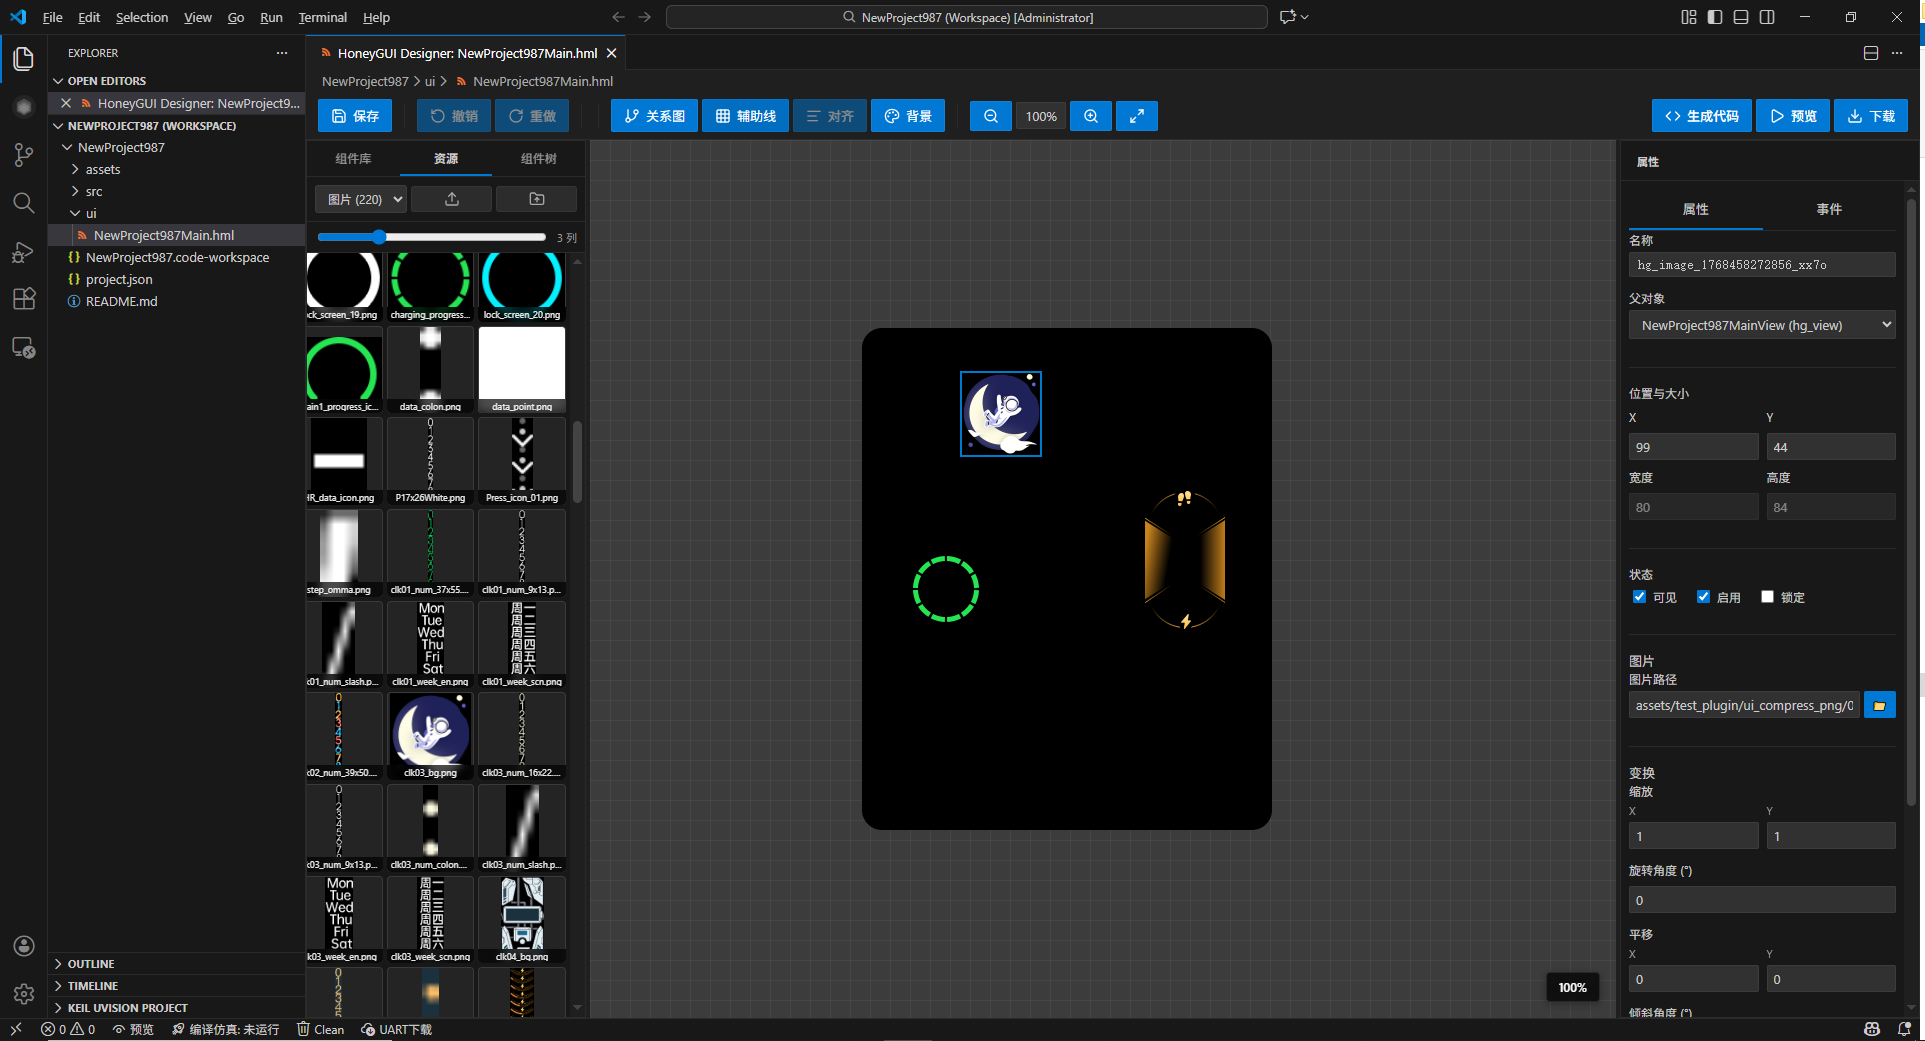
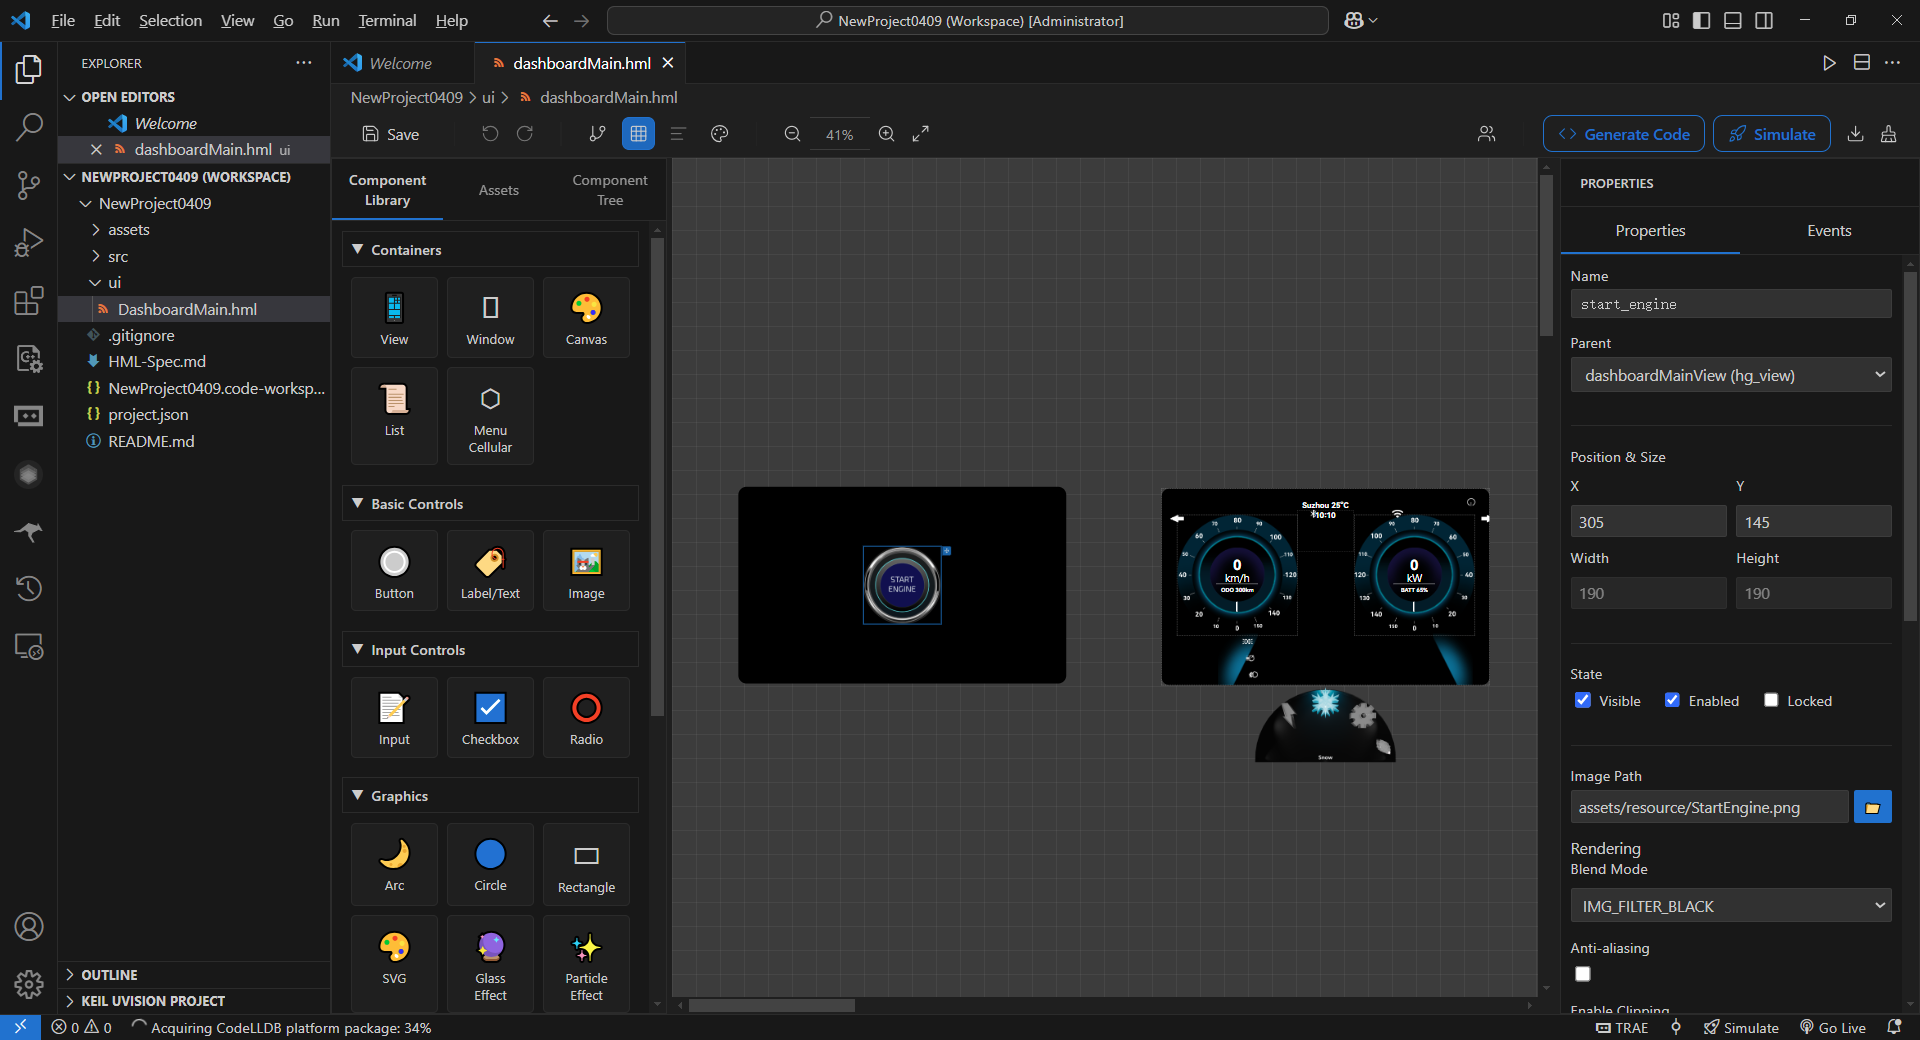
GUI-BypassTest: fix plugin doc

diff --git a/doc/en/GUI-APP/VSCode/deployment.rst b/doc/en/GUI-APP/VSCode/deployment.rst
@@ -453,28 +453,19 @@ Bind Data on Embedded Side
 Solution Selection Guide
 -------------------------
 
-.. code-block:: text
+.. mermaid::
 
-                  ┌─────────────────┐
-                  │ Need OTA UI     │
-                  │ updates?        │
-                  └────────┬────────┘
-                           │
-            ┌──────────────┴──────────────┐
-            │ No                          │ Yes
-            ▼                             ▼
-    ┌───────────────┐           ┌─────────────────┐
-    │ Solution 1:   │           │ Flash sufficient?│
-    │ C Code        │           └────────┬────────┘
-    └───────────────┘                    │
-                          ┌──────────────┴──────────────┐
-                          │ Yes                         │ No
-                          ▼                             ▼
-                  ┌───────────────┐           ┌───────────────┐
-                  │ Solution 2:   │           │ Solution 3:   │
-                  │ HML (XML)     │           │ HML (BIN)     │
-                  │ (Easy debug)  │           │ (Small size)  │
-                  └───────────────┘           └───────────────┘
+   graph TD
+       Q1{Need OTA UI updates?}
+       Q2{Flash sufficient?}
+       A1[Solution 1: C Code]
+       A2[Solution 2: HML<br/>Easy debug]
+       A3[Solution 3: BIN<br/>Small size]
+
+       Q1 -->|No| A1
+       Q1 -->|Yes| Q2
+       Q2 -->|Yes| A2
+       Q2 -->|No| A3
 
 Performance and Resource Comparison
 ------------------------------------
@@ -567,4 +558,3 @@ Next Steps
 * See :doc:`code_generation` for code generation details
 * Learn :doc:`build_simulation` to test on PC
 * Refer to :doc:`resource_management` to optimize resource usage
-* Read HoneyGUI SDK porting documentation for platform adaptation

diff --git a/doc/cn/GUI-APP/VSCode/event_system.rst b/doc/cn/GUI-APP/VSCode/event_system.rst
@@ -29,11 +29,11 @@ UI 设计变更
 
 原有的视图切换功能已统一到 Event-Action 体系中：
 
-.. code-block:: text
+.. figure:: resource/property.png
+   :align: center
+   :width: 300px
 
-   ┌─────────────────────────────────────┐
-   │ [属性] [事件]                       │  ← 所有组件统一使用
-   ├─────────────────────────────────────┤
+   属性界面
 
 * **属性**: 组件基础属性（位置、大小、样式等）
 * **事件**: Event-Action 配置（包含原视图切换功能）
@@ -386,25 +386,11 @@ UI 设计
 属性面板 - 事件标签页
 ~~~~~~~~~~~~~~~~~~~~~~
 
-.. code-block:: text
+.. figure:: resource/event.png
+   :align: center
+   :width: 300px
 
-   ┌─────────────────────────────────────┐
-   │ [属性] [事件]                       │
-   ├─────────────────────────────────────┤
-   │                                     │
-   │ ▼ onSwipeLeft                [删除] │
-   │ ┌─────────────────────────────────┐ │
-   │ │ 1. switchView                   │ │
-   │ │    目标视图: [screen2    ▼]     │ │
-   │ │    退出动画: [向左平移   ▼]     │ │
-   │ │    进入动画: [从右平移   ▼]     │ │
-   │ │                         [×]     │ │
-   │ └─────────────────────────────────┘ │
-   │ [+ 添加动作]                        │
-   │                                     │
-   │ [+ 添加事件]                        │
-   │                                     │
-   └─────────────────────────────────────┘
+   事件界面
 
 实际使用示例
 ------------
@@ -412,7 +398,7 @@ UI 设计
 示例 1: 按钮点击跳转
 ~~~~~~~~~~~~~~~~~~~~
 
-**场景**: 点击 :gui_label:`下一步` 按钮跳转到第二页
+**场景**: 点击 :guilabel:`下一步` 按钮跳转到第二页
 
 **HML 配置**:
 

diff --git a/doc/en/GUI-APP/VSCode/event_system.rst b/doc/en/GUI-APP/VSCode/event_system.rst
@@ -29,11 +29,11 @@ Unified Property Panel Tabs
 
 The original view switch functionality has been unified into the Event-Action system:
 
-.. code-block:: text
+.. figure:: resource/property.png
+   :align: center
+   :width: 300px
 
-   +-------------------------------------+
-   | [Properties] [Events]               |  <- Used uniformly by all components
-   +-------------------------------------+
+   Properties Panel
 
 * **Properties**: Basic component attributes (position, size, style, etc.)
 * **Events**: Event-Action configuration (includes original view switch functionality)
@@ -386,25 +386,11 @@ UI Design
 Property Panel - Events Tab
 ~~~~~~~~~~~~~~~~~~~~~~~~~~~~
 
-.. code-block:: text
+.. figure:: resource/event.png
+   :align: center
+   :width: 300px
 
-   ┌─────────────────────────────────────┐
-   │ [Properties] [Events]               │
-   ├─────────────────────────────────────┤
-   │                                     │
-   │ ▼ onSwipeLeft               [Delete]│
-   │ ┌─────────────────────────────────┐ │
-   │ │ 1. switchView                   │ │
-   │ │    Target View: [screen2    ▼]  │ │
-   │ │    Exit Anim:   [Slide Left ▼]  │ │
-   │ │    Enter Anim:  [From Right ▼]  │ │
-   │ │                         [×]     │ │
-   │ └─────────────────────────────────┘ │
-   │ [+ Add Action]                      │
-   │                                     │
-   │ [+ Add Event]                       │
-   │                                     │
-   └─────────────────────────────────────┘
+   Events Panel
 
 Practical Examples
 ------------------
@@ -412,7 +398,7 @@ Practical Examples
 Example 1: Button Click to Jump
 ~~~~~~~~~~~~~~~~~~~~~~~~~~~~~~~~
 
-**Scenario**: Click :gui_label:`Next` button to jump to page 2
+**Scenario**: Click :guilabel:`Next` button to jump to page 2
 
 **HML Configuration**:
 

diff --git a/doc/cn/GUI-APP/VSCode/build_simulation.rst b/doc/cn/GUI-APP/VSCode/build_simulation.rst
@@ -19,7 +19,7 @@ Windows
 * **MinGW-w64**: C/C++ 编译器
 
   * 推荐版本： 8.1.0 或更高
-  * 安装路径： ``C:\mingw64``（默认）
+  * 安装路径： ``C:\mingw64`` （默认）
   * 下载： https://sourceforge.net/projects/mingw-w64/
 
 * **Python**: 3.9.7 或更高版本
@@ -151,7 +151,7 @@ HoneyGUI Visual Designer 项目的标准结构：
 
 2. **生成代码**:
 
-   * 点击工具栏的 :gui_label:`生成代码` 按钮
+   * 点击工具栏的 :guilabel:`生成代码` 按钮
    * 或使用命令面板： ``Ctrl+Shift+P`` → ``HoneyGUI: Generate Code``
 
 3. **配置应用**:

diff --git a/doc/cn/GUI-APP/VSCode/code_generation.rst b/doc/cn/GUI-APP/VSCode/code_generation.rst
@@ -97,7 +97,7 @@
 ~~~~~~~~
 
 1. 在设计器中打开任意 HML 文件
-2. 点击工具栏的 :gui_label:`生成代码`
+2. 点击工具栏的 :guilabel:`生成代码`
 3. 自动扫描项目中所有 HML 文件并生成代码
 4. 显示生成进度和结果
 
@@ -110,7 +110,7 @@
 **快捷方式**:
 
 * 命令面板： ``Ctrl+Shift+P`` → ``HoneyGUI: Generate Code``
-* 工具栏按钮：点击 :gui_label:`生成代码`
+* 工具栏按钮：点击 :guilabel:`生成代码`
 
 代码保护区
 ----------

diff --git a/doc/en/GUI-APP/VSCode/code_generation.rst b/doc/en/GUI-APP/VSCode/code_generation.rst
@@ -97,7 +97,7 @@ Generate Code
 ~~~~~~~~~~~~~
 
 1. Open any HML file in the designer
-2. Click the :gui_label:`Generate Code` button in the toolbar
+2. Click the :guilabel:`Generate Code` button in the toolbar
 3. Automatically scan all HML files in the project and generate code
 4. Display generation progress and results
 
@@ -110,7 +110,7 @@ Generate Code
 **Shortcuts**:
 
 * Command Palette: ``Ctrl+Shift+P`` -> ``HoneyGUI: Generate Code``
-* Toolbar Button: Click :gui_label:`Generate Code`
+* Toolbar Button: Click :guilabel:`Generate Code`
 
 Code Protected Regions
 -----------------------

diff --git a/doc/en/GUI-APP/VSCode/build_simulation.rst b/doc/en/GUI-APP/VSCode/build_simulation.rst
@@ -151,7 +151,7 @@ Build Using VSCode Plugin
 
 2. **Generate Code**:
 
-   * Click the :gui_label:`Generate Code` button in toolbar
+   * Click the :guilabel:`Generate Code` button in toolbar
    * Or use command palette: ``Ctrl+Shift+P`` -> ``HoneyGUI: Generate Code``
 
 3. **Configure Application**: